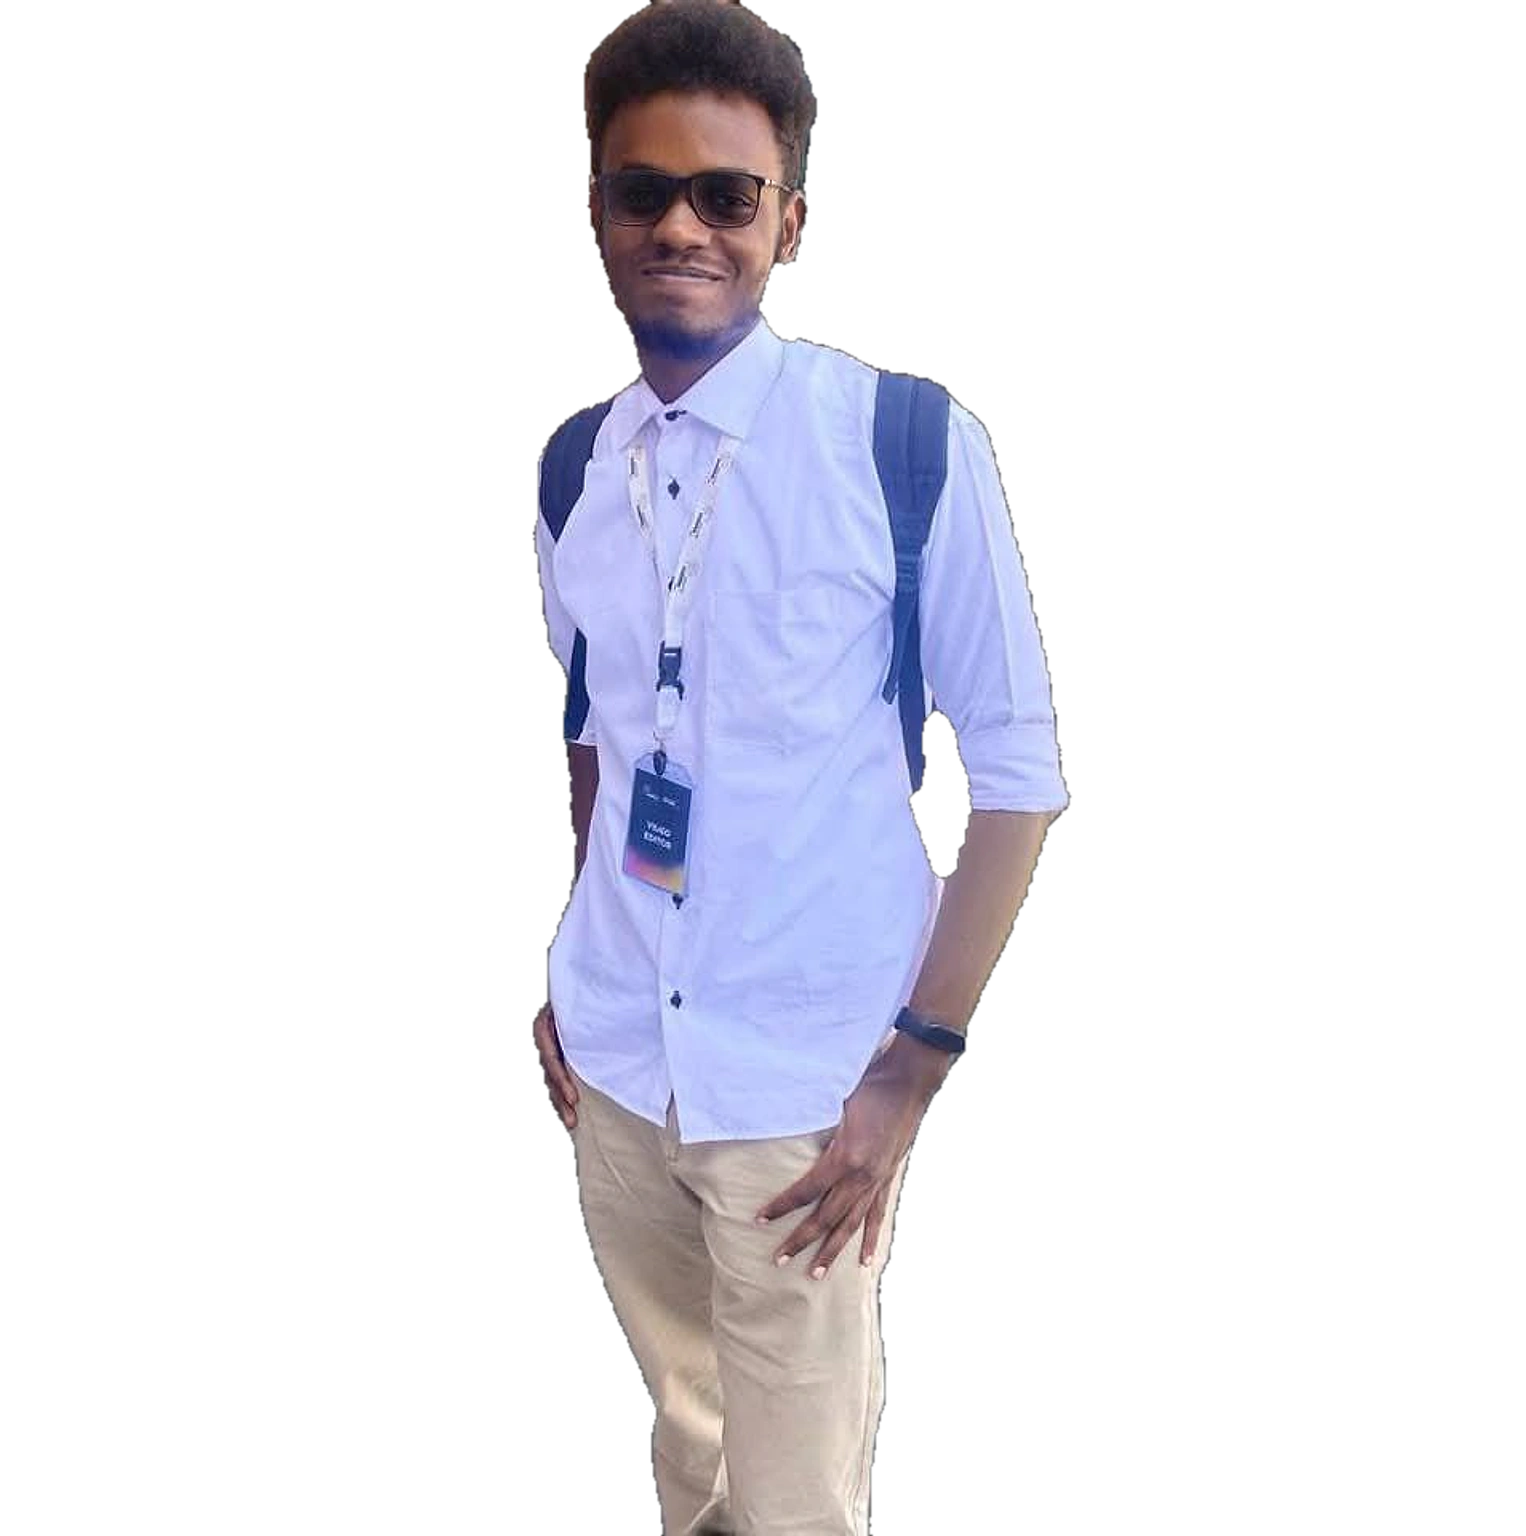
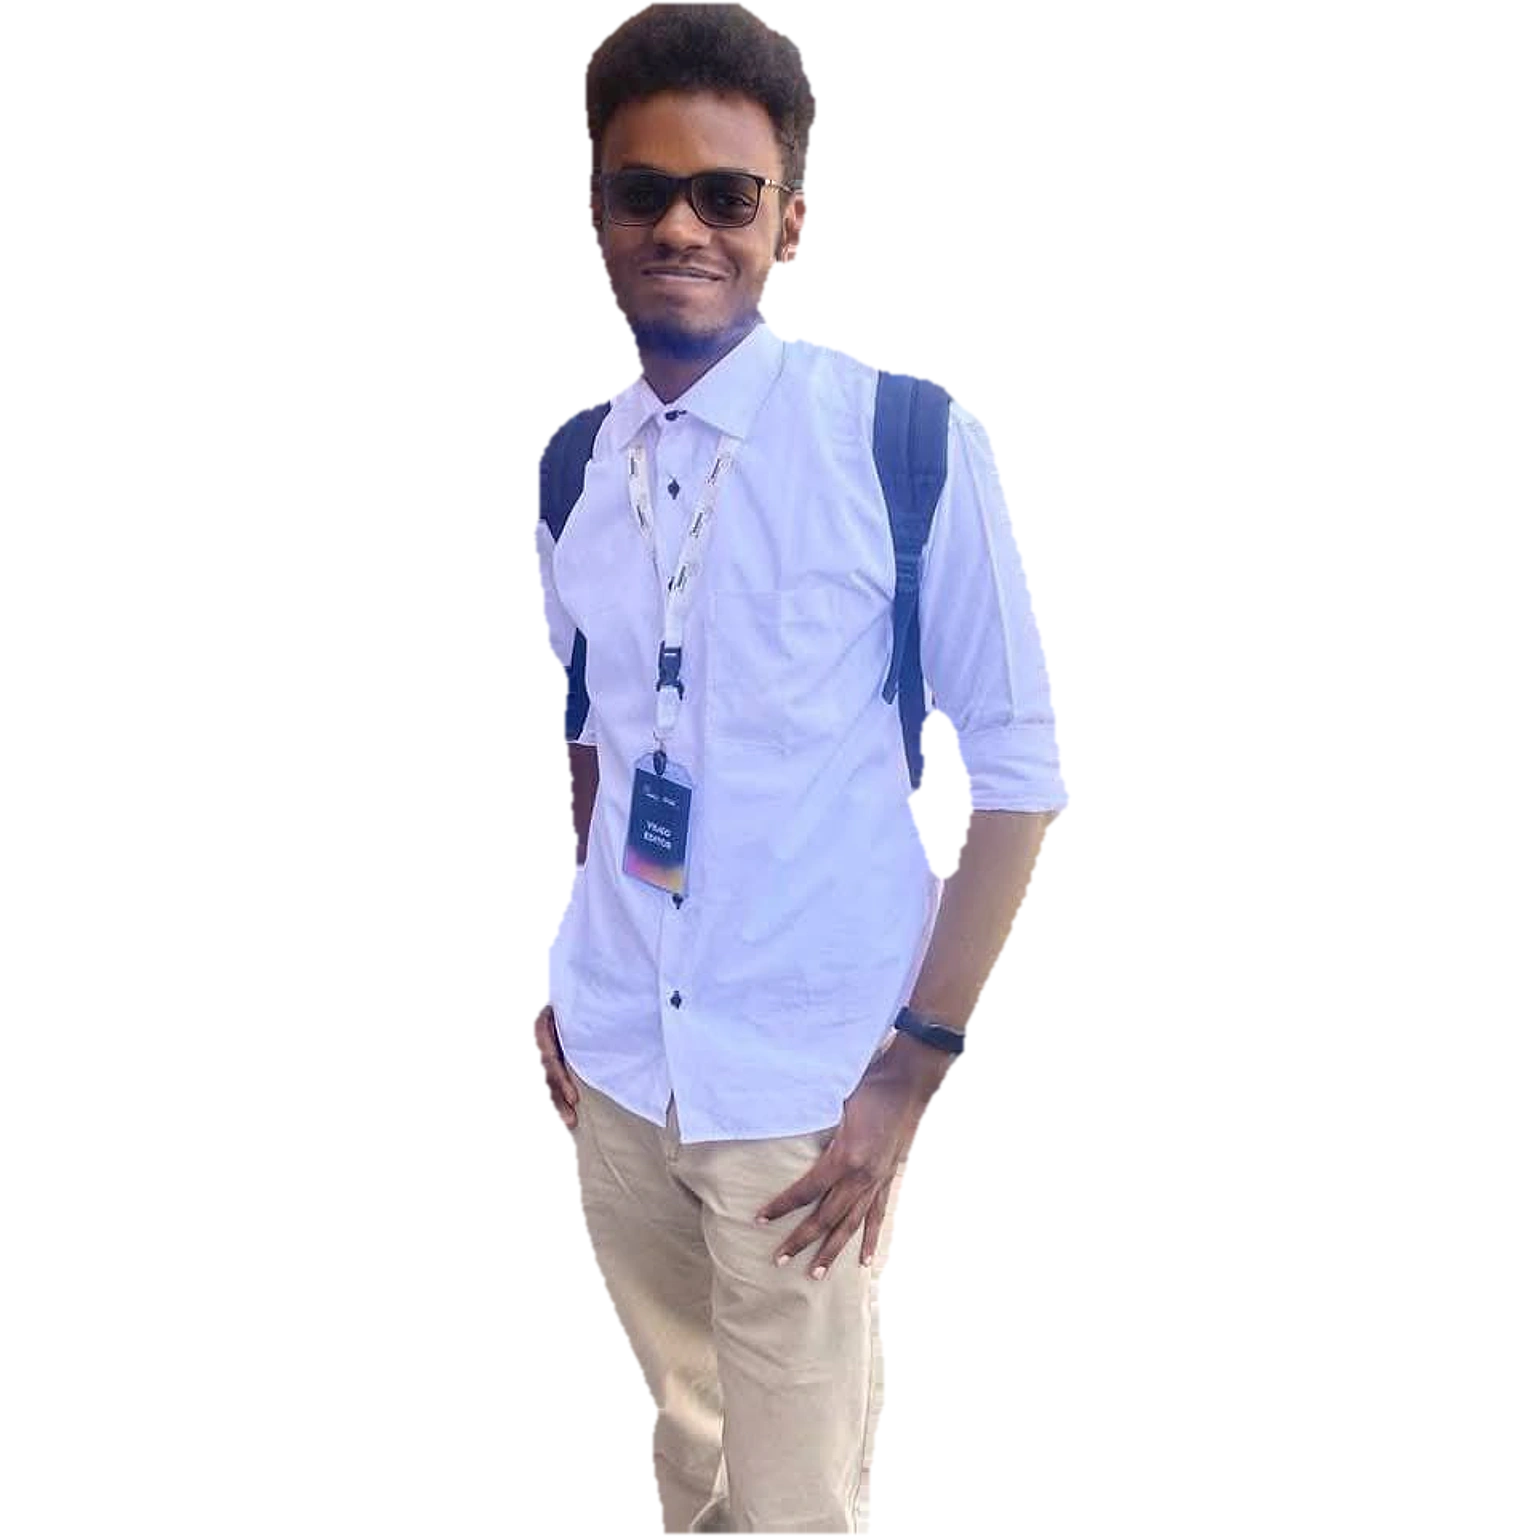
Clean portrait edges and fix sun gradient in About section

diff --git a/src/styles.css b/src/styles.css
@@ -540,8 +540,7 @@ ul, ol { list-style: none; }
   top: 8%;
   left: 14%;
   border-radius: 50%;
-  background: radial-gradient(circle at 50% 40%, #ffc371 0%, #ff7a3a 35%, #ff004f 70%, transparent 71%);
-  filter: blur(0.5px);
+  background: radial-gradient(circle at 50% 38%, #ffc371 0%, #ff7a3a 38%, #ff004f 100%);
   box-shadow: 0 0 140px rgba(255, 0, 79, 0.35);
 }
 .about-cutout {
@@ -551,8 +550,8 @@ ul, ol { list-style: none; }
   object-fit: contain;
   object-position: bottom;
   will-change: transform;
-  -webkit-mask-image: linear-gradient(180deg, #000 70%, transparent 98%);
-  mask-image: linear-gradient(180deg, #000 70%, transparent 98%);
+  -webkit-mask-image: linear-gradient(180deg, #000 84%, transparent 100%);
+  mask-image: linear-gradient(180deg, #000 84%, transparent 100%);
 }
 .about-copy > p:not(.eyebrow) {
   color: var(--muted);
